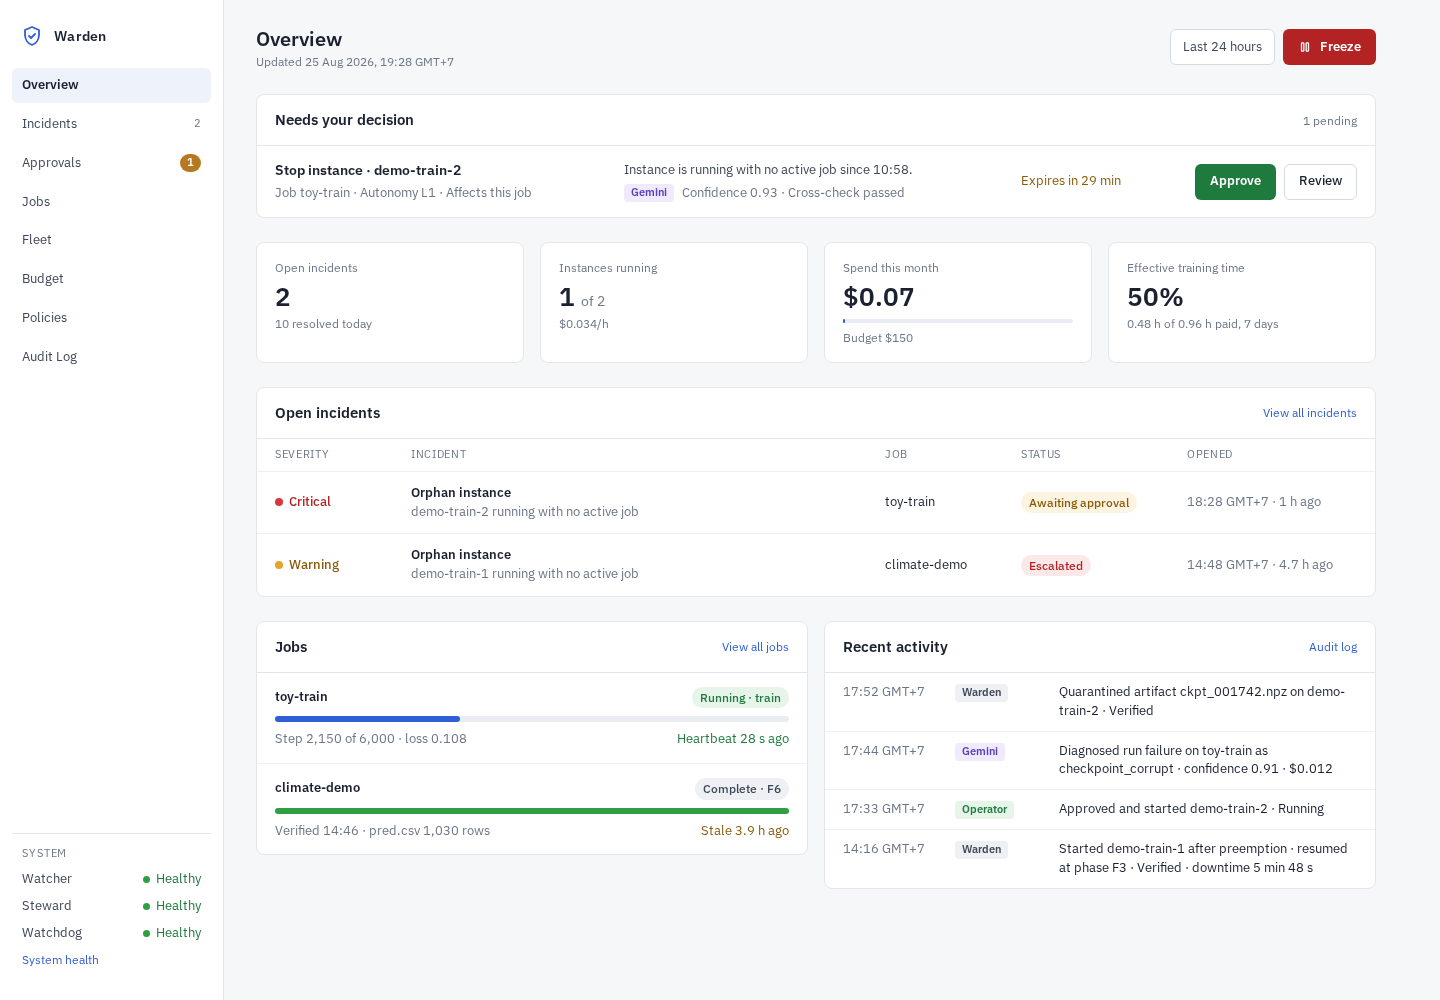
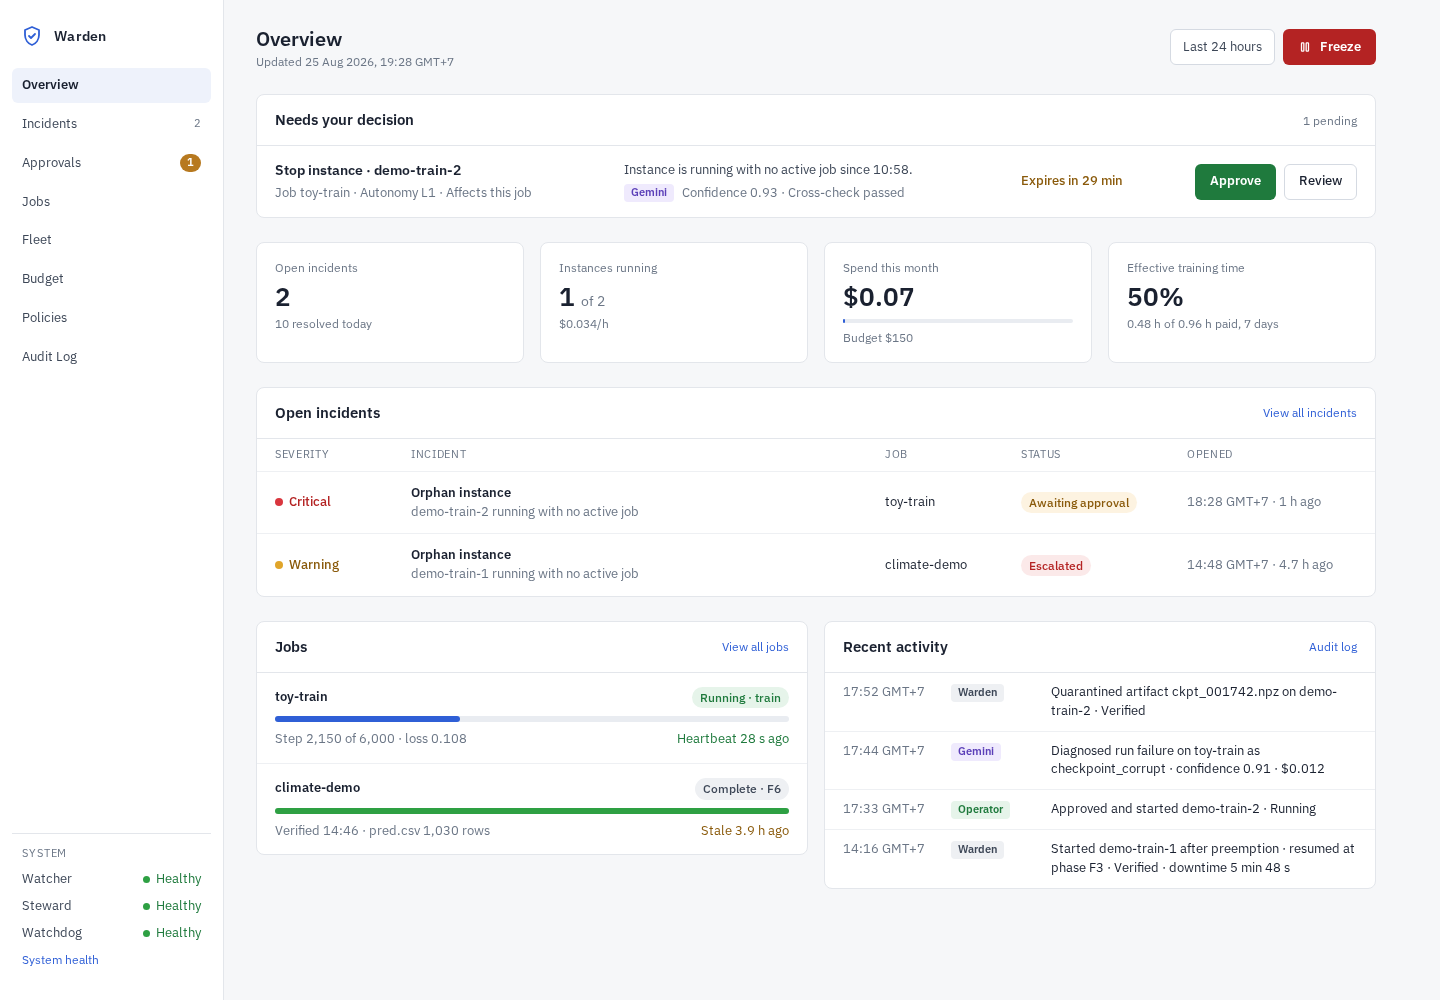
ui2: activity gap, expires weight; pixel parity re-measured

diff --git a/warden/ui2/templates/approvals.html b/warden/ui2/templates/approvals.html
@@ -6,7 +6,7 @@
   {% for d in decisions %}<div class="tr cols-decision">
     <div class="cell-2 gap4"><div class="strong s14">{{ d.action_label }} · {{ d.target_short }}</div><div class="sub">Job {{ d.job_id or '—' }} · Autonomy {{ d.autonomy }} · Affects {{ d.radius|lower }}</div></div>
     <div class="cell-2 gap4 text-2"><div>{{ d.why }}</div>{% if d.gemini %}<div class="muted"><span class="actor actor-gemini">Gemini</span> Confidence {{ d.gemini.conf }} · Cross-check {{ 'passed' if d.gemini.passed else 'failed' }}</div>{% endif %}</div>
-    <div class="num {{ 'crit' if d.expired else 'warn' }}">{% if d.expired %}Expired{% else %}Expires <time data-utc="{{ d.expires_iso }}" data-fmt="rel"></time>{% endif %}</div>
+    <div class="num expires {{ 'crit' if d.expired else 'warn' }}">{% if d.expired %}Expired{% else %}Expires <time data-utc="{{ d.expires_iso }}" data-fmt="rel"></time>{% endif %}</div>
     <div class="actions" style="justify-content:flex-end">{% if d.expired %}<button class="btn btn-secondary" data-act="/decisions/{{ d.decision_id }}/reevaluate?who=dashboard" data-key="{{ d.decision_id }}">Re-evaluate</button>{% else %}<button class="btn btn-approve" data-act="/decisions/{{ d.decision_id }}/approve?who=dashboard" data-key="{{ d.decision_id }}">Approve</button>{% endif %}<a class="btn btn-secondary" href="/incidents/{{ d.incident_id }}">Review</a></div>
   </div>{% else %}<div class="empty"><b>No pending decisions</b><span>Warden lists decisions here when a policy requires you.</span></div>{% endfor %}
 </section>

diff --git a/warden/ui2/templates/overview.html b/warden/ui2/templates/overview.html
@@ -15,7 +15,7 @@
     <div class="cell-2 gap4"><div class="strong s14">{{ d.action_label }} · {{ d.target_short }}</div><div class="sub">Job {{ d.job_id or '—' }} · Autonomy {{ d.autonomy }} · Affects {{ d.radius|lower }}</div></div>
     <div class="cell-2 gap4 text-2"><div>{{ d.why }}</div>
       {% if d.gemini %}<div class="muted" style="display:flex;align-items:center;gap:8px"><span class="actor actor-gemini">Gemini</span>Confidence {{ d.gemini.conf }} · Cross-check {{ 'passed' if d.gemini.passed else 'failed' }}</div>{% else %}<div class="muted"><span class="actor actor-warden">Warden</span> Rule · {{ d.rule }}</div>{% endif %}</div>
-    <div class="num {{ 'crit' if d.expired else 'warn' }}">{% if d.expired %}Expired{% else %}Expires <time data-utc="{{ d.expires_iso }}" data-fmt="rel"></time>{% endif %}</div>
+    <div class="num expires {{ 'crit' if d.expired else 'warn' }}">{% if d.expired %}Expired{% else %}Expires <time data-utc="{{ d.expires_iso }}" data-fmt="rel"></time>{% endif %}</div>
     <div class="actions" style="justify-content:flex-end">
       {% if d.expired %}<button class="btn btn-secondary" data-act="/decisions/{{ d.decision_id }}/reevaluate?who=dashboard" data-key="{{ d.decision_id }}">Re-evaluate</button>
       {% else %}<button class="btn btn-approve" data-act="/decisions/{{ d.decision_id }}/approve?who=dashboard" data-key="{{ d.decision_id }}">Approve</button>{% endif %}

diff --git a/warden/ui2/static/warden.css b/warden/ui2/static/warden.css
@@ -67,8 +67,8 @@ a.plain { color: var(--text); font-weight: 600; } a.plain:hover { color: var(--a
 .tr { display: grid; gap: 16px; align-items: center; padding: 12px 18px; border-bottom: 1px solid var(--line); } .tr:last-child { border-bottom: none; }
 .th { display: grid; gap: 16px; padding: 8px 18px; font-size: 11px; color: var(--muted); text-transform: uppercase; letter-spacing: 0.06em; border-bottom: 1px solid var(--line); }
 .cols-incidents { grid-template-columns: 120px minmax(0, 1fr) 120px 150px 170px; }
-.cols-activity { grid-template-columns: 96px 88px minmax(0, 1fr); align-items: start; padding: 10px 18px; }
-.cols-decision { grid-template-columns: minmax(0, 1.4fr) minmax(0, 1.6fr) 120px 200px; padding: 14px 18px; }
+.cols-activity { grid-template-columns: 96px 88px minmax(0, 1fr); gap: 12px; align-items: start; padding: 10px 18px; }
+.cols-decision { grid-template-columns: minmax(0, 1.4fr) minmax(0, 1.6fr) 120px 200px; padding: 14px 18px; } .cols-decision .expires { font-weight: 500; }
 .cols-audit { grid-template-columns: 150px 90px 70px 170px minmax(0, 1fr) minmax(0, 1fr); }
 .cols-policy { grid-template-columns: 200px 220px minmax(0, 1fr); }
 .cols-ettr { grid-template-columns: minmax(0, 1fr) 80px 120px 120px 100px; }

diff --git a/docs/mockup-v2/Main.dc.html b/docs/mockup-v2/Main.dc.html
@@ -142,7 +142,7 @@
         <div style="display: flex; flex-direction: column; gap: 8px; padding: 14px 18px;">
           <div style="display: flex; align-items: center; justify-content: space-between;"><a href="#" style="color: #1a2130; font-weight: 600;">climate-demo</a><span style="display: inline-flex; padding: 2px 8px; border-radius: 999px; background: #eef0f3; color: #3d4757; font-size: 12px; font-weight: 500;">Complete · F6</span></div>
           <div style="height: 6px; border-radius: 3px; background: #e9ecf1;"><div style="width: 100%; height: 100%; border-radius: 3px; background: #2ea043;"></div></div>
-          <div class="num" style="display: flex; justify-content: space-between; color: #6b7686;"><span>Verified 14:46 · pred.csv 1,030 rows</span><span style="color: #6b7686;">Stale · 3.9 h ago</span></div>
+          <div class="num" style="display: flex; justify-content: space-between; color: #6b7686;"><span>Verified 14:46 · pred.csv 1,030 rows</span><span style="color: #6b7686;">Stale 3.9 h ago</span></div>
         </div>
       </div>
       <div style="display: flex; flex-direction: column; background: #fff; border: 1px solid #e3e6eb; border-radius: 8px;">
